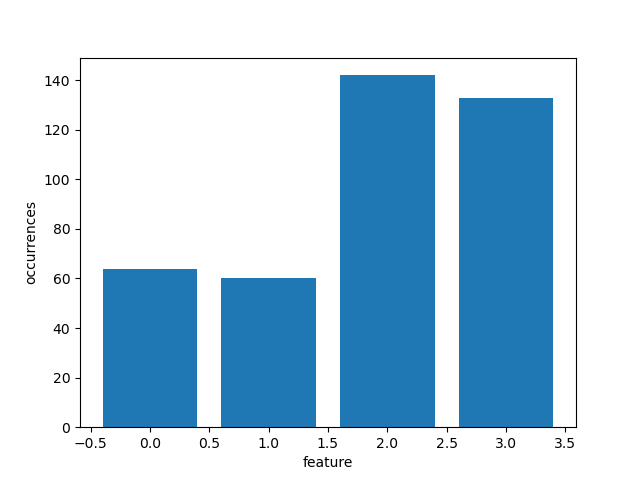
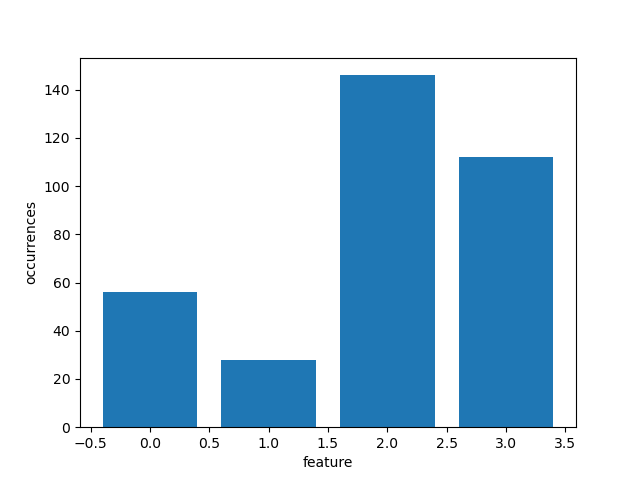
train database is now separated

diff --git a/practica/main.py b/practica/main.py
@@ -4,6 +4,7 @@ from ForestLib.randomForest import Classifier, Forest, Regressor
 from ForestLib.dataset import Dataset
 from ForestLib.measure import Impurity, Gini, Entropy, SSE
 from ForestLib.splitting import Split, ExtraSplit, RandomSplit
+import matplotlib.pyplot as plt
 import numpy as np
 import numpy.typing as npt
 import logging
@@ -11,18 +12,18 @@ import argparse
 import argcomplete
 
 # Hyperparameters small
-# num_trees: int = 84   # number of decision trees
-# max_depth: int = 20   # maximum number of levels of a decision tree
-# min_size_split: int = 5   # if less, do not split a node
-# ratio_samples: float = 0.8   # sampling with replacement
-# ratio_train = 0.7
+num_trees: int = 84   # number of decision trees
+max_depth: int = 20   # maximum number of levels of a decision tree
+min_size_split: int = 5   # if less, do not split a node
+ratio_samples: float = 0.8   # sampling with replacement
+ratio_train = 0.7
 
 # Hyperparameters big
-num_trees: int = 42  # number of decision trees
-max_depth: int = 20   # maximum number of levels of a decision tree
-min_size_split: int = 20   # if less, do not split a node
-ratio_samples: float = 0.4   # sampling with replacement
-ratio_train = 0.7
+# num_trees: int = 42  # number of decision trees
+# max_depth: int = 20   # maximum number of levels of a decision tree
+# min_size_split: int = 20   # if less, do not split a node
+# ratio_samples: float = 0.4   # sampling with replacement
+# ratio_train = 0.7
 
 # Hyperparameters debug
 # num_trees: int = 1  # number of decision trees
@@ -33,35 +34,40 @@ ratio_train = 0.7
 
 
 def benchmark(
-    forest: Forest, dataset: Dataset, verbose: bool
+    forest: Forest,  dataset: tuple[Dataset, Dataset], verbose: bool
 ) -> tuple[float, str]:
-    num_samples_train: int = int(dataset.num_samples * ratio_train)
-    num_samples_test: int = dataset.num_samples - num_samples_train
-    idx = np.random.permutation(range(dataset.num_samples))
-    idx_train = idx[:num_samples_train]
-    idx_test = idx[num_samples_train : num_samples_train + num_samples_test]
-    X_train, y_train = dataset.X[idx_train], dataset.y[idx_train]
-    X_test, y_test = dataset.X[idx_test], dataset.y[idx_test]
-
-    forest.fit(X_train, y_train)
+    train_db, test_db= dataset
+    forest.fit(train_db.X, train_db.y)
     ypred: npt.NDArray[np.int64] | npt.NDArray[np.float64] = forest.predict(
-        X_test
+        test_db.X
     )
     if verbose:
         forest.print_trees()
-        forest.featureGraph(dataset.title)
+        forest.featureGraph(test_db.title)
 
     if type(forest) == Regressor:
         assert type(ypred[0]) == np.float64
+        plt.figure()
+        x = range(len(test_db.X))
+        for t, y1, y2 in zip(x, test_db.y, ypred):
+            plt.plot([t, t], [y1, y2], 'k-')
+        plt.plot([x[0], x[0]], [test_db.y[0], ypred[0]], 'k-', label='error')
+        plt.plot(x, test_db.y, 'g.', label='test')
+        plt.plot(x, ypred, 'y.', label='prediction')
+        plt.xlabel('day in last 2 years')
+        plt.ylabel('min. daily temperature')
+        plt.legend()
+        plt.savefig('figures/FeatureImportance_temperatures.png')
+
         accuracy: float = np.sqrt(
-            np.sum((ypred - y_test) ** 2) / num_samples_test
+            np.sum((ypred - test_db.y) ** 2) / len(test_db.y)
         )
         result_str: str = f'{(accuracy):2.1f} rmse'
 
     else:
         assert type(ypred[0]) == np.int64
-        hits: int = np.sum(ypred == y_test)
-        accuracy: float = hits / float(num_samples_test)
+        hits: int = np.sum(ypred == test_db.y)
+        accuracy: float = hits / float(len(test_db.y))
         result_str: str = f'{(100*accuracy):2.1f}%'
     return (forest.time, result_str)
 
@@ -71,11 +77,11 @@ def test_single(
     criterion: Impurity,
     arch: str,
     parallel: bool,
-    dataset: Dataset,
+    dataset: tuple[Dataset, Dataset],
     print_trees: bool,
 ):
     num_random_features: int = int(
-        np.sqrt(dataset.num_features)
+        np.sqrt(dataset[0].num_features)
     )   # This number is not chosen at random but represents the number of features to choose at random
     split: Split
     match arch:
@@ -196,17 +202,17 @@ def main(
     )
     logging.info('Starting the program')
     logging.info(f'Attemtping to load {dataset}:')
-    data: Dataset
+    data: tuple[Dataset, Dataset]
     forest: type[Forest] = Classifier
     match dataset:
         case 'sonar':
-            data = Dataset.load_sonar()
+            data = Dataset.load_sonar(ratio_train)
             logging.info(f'Sonar database loaded')
         case 'iris':
-            data = Dataset.load_iris()
+            data = Dataset.load_iris(ratio_train)
             logging.info(f'Iris database loaded')
         case 'mnist':
-            data = Dataset.load_MNIST()
+            data = Dataset.load_MNIST(ratio_train)
             logging.info(f'MNIST database loaded')
         case 'temperatures':
             data = Dataset.load_temperatures()

diff --git a/practica/ForestLib/dataset.py b/practica/ForestLib/dataset.py
@@ -86,8 +86,23 @@ class Dataset:
             type(self)(np.array(right_X), right_y),
         )
 
+    def test_split(self, ratio_train: float) -> tuple[Self, Self]:
+        num_samples_train: int = int(self.num_samples * ratio_train)
+        num_samples_test: int = self.num_samples - num_samples_train
+        idx = np.random.permutation(range(self.num_samples))
+        idx_train = idx[:num_samples_train]
+        idx_test = idx[
+            num_samples_train : num_samples_train + num_samples_test
+        ]
+        X_train, y_train = self.X[idx_train], self.y[idx_train]
+        X_test, y_test = self.X[idx_test], self.y[idx_test]
+        return (
+            type(self)(np.array(X_train), y_train),
+            type(self)(np.array(X_test), y_test),
+        )
+
     @classmethod
-    def load_sonar(cls) -> Self:
+    def load_sonar(cls, ratio_train: float) -> tuple[Self, Self]:
         df = pd.read_csv('./datasets/Sonar/sonar.all-data.csv', header=None)
 
         X: npt.NDArray[np.float64] = df[df.columns[:-1]].to_numpy(
@@ -102,11 +117,13 @@ class Dataset:
         )   # M = mine, R = rock
 
         current = cls(X, y)
-        current.title = 'sonar'
-        return current
+        train, test = current.test_split(ratio_train)
+        train.title = 'sonar'
+        test.title = 'sonar'
+        return (train, test)
 
     @classmethod
-    def load_iris(cls) -> Self:
+    def load_iris(cls, ratio_train: float) -> tuple[Self, Self]:
         X: npt.NDArray[np.float64]
         y: npt.NDArray[np.int64]
         X, y = sklearn.datasets.load_iris(return_X_y=True)
@@ -114,11 +131,13 @@ class Dataset:
         # labels: npt.NDArray[np.int64] = np.unique(y)
 
         current = cls(X, y)
-        current.title = 'iris'
-        return current
+        train, test = current.test_split(ratio_train)
+        train.title = 'iris'
+        test.title = 'iris'
+        return (train, test)
 
     @classmethod
-    def load_MNIST(cls) -> Self:
+    def load_MNIST(cls, ratio_train: float) -> tuple[Self, Self]:
         with open('./datasets/MNIST/mnist.pkl', 'rb') as f:
             mnist = pickle.load(f, encoding='byte')
 
@@ -132,11 +151,13 @@ class Dataset:
         )
 
         current = cls(images, labels)
-        current.title = 'mnist'
-        return current
+        train, test = current.test_split(ratio_train)
+        train.title = 'mnist'
+        test.title = 'mnist'
+        return (train, test)
 
     @classmethod
-    def load_temperatures(cls) -> Self:
+    def load_temperatures(cls) -> tuple[Self, Self]:
         df = pd.read_csv(
             'https://raw.githubusercontent.com/jbrownlee/'
             'Datasets/master/daily-min-temperatures.csv'
@@ -145,11 +166,14 @@ class Dataset:
         month: np.int64 = pd.DatetimeIndex(df.Date).month.to_numpy()   # 1...12
         year: np.int64 = pd.DatetimeIndex(
             df.Date
-        ).year.to_numpy()   # 1981...1999
+        ).year.to_numpy()   # 1981...1990
+        train_indeces = np.where(year < 1989)
+        test_indeces = np.where(year >= 1989)
         X: npt.NDArray[np.int64] = np.vstack(
             [day, month, year]
         ).T   # np array of 3 columns
         y: npt.NDArray[np.float64] = df.Temp.to_numpy()
-        current = cls(X, y)
-        current.title = 'temperatures'
-        return current
+        train, test = cls(X[train_indeces], y[train_indeces]), cls(X[test_indeces], y[test_indeces])
+        train.title = 'temperatures'
+        test.title = 'temperatures'
+        return (train, test)

diff --git a/practica/ForestLib/randomForest.py b/practica/ForestLib/randomForest.py
@@ -153,14 +153,14 @@ class Forest:
             plt.colorbar()
             plt.xlabel('Horizontal Pixels')
             plt.ylabel('Vertical Pixels')
-            plt.savefig('FeatureImportance_MNIST.png')
+            plt.savefig('figures/FeatureImportance_MNIST.png')
         else:
             x = np.array(list(occurrences.keys()))
             y = np.array(list(occurrences.values()))
             plt.figure(), plt.bar(x, y)
             plt.xlabel('feature')
             plt.ylabel('occurrences')
-            plt.savefig(f'FeatureImportance_{title}.png')
+            plt.savefig(f'figures/FeatureImportance_{title}.png')
 
 
 class Classifier(Forest):
